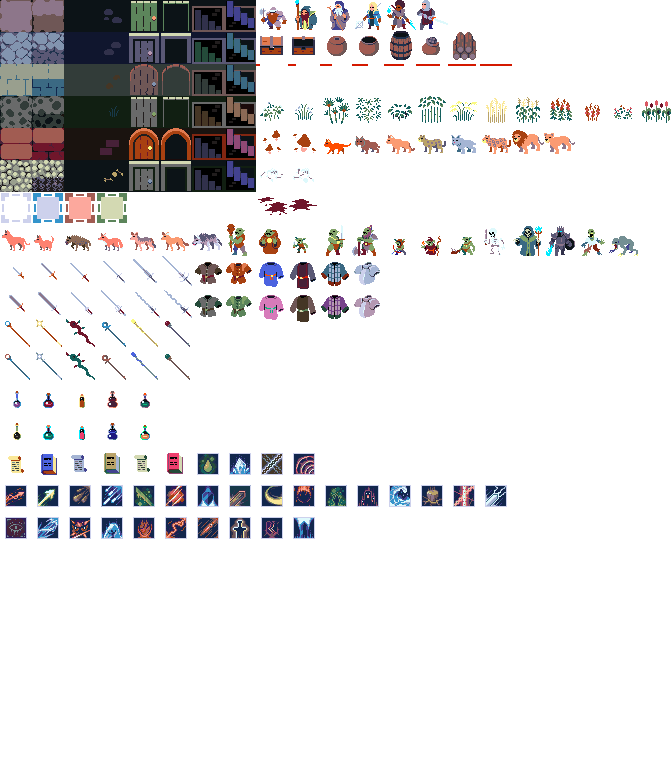
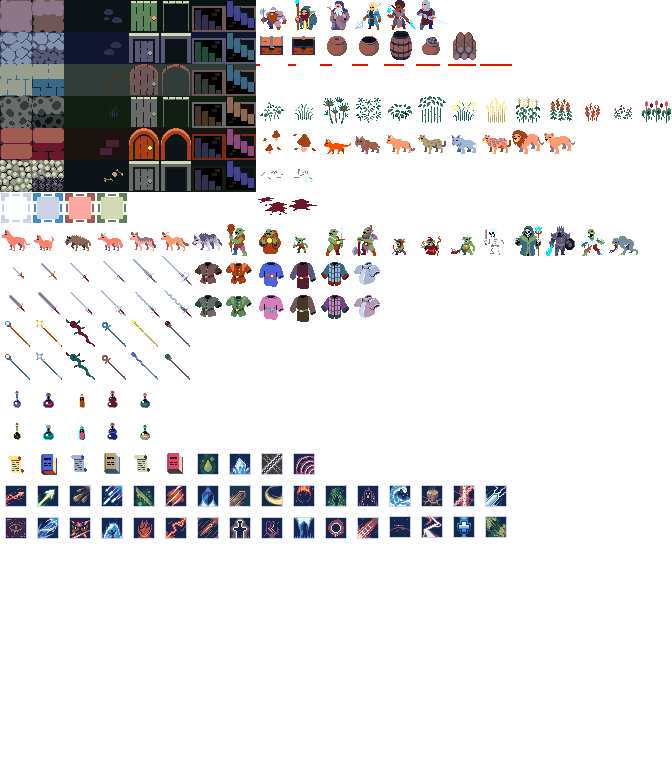
add more tiles

Changed region(s): [[0.4688, 0.6562, 0.75, 0.7188]]

diff --git a/src/tiles.js b/src/tiles.js
@@ -209,5 +209,11 @@ const gameTilemap = {
   rainofblades: [192, 512],
   honor: [224, 512],
   reflectionshield: [256, 512],
-  auraofwinter: [288, 512]
+  auraofwinter: [288, 512],
+  solareclipse: [320, 512],
+  supernova: [352, 512],
+  darkness: [384, 512],
+  speedoflight: [416, 512],
+  heal: [448, 512],
+  plague: [480, 512]
 };
